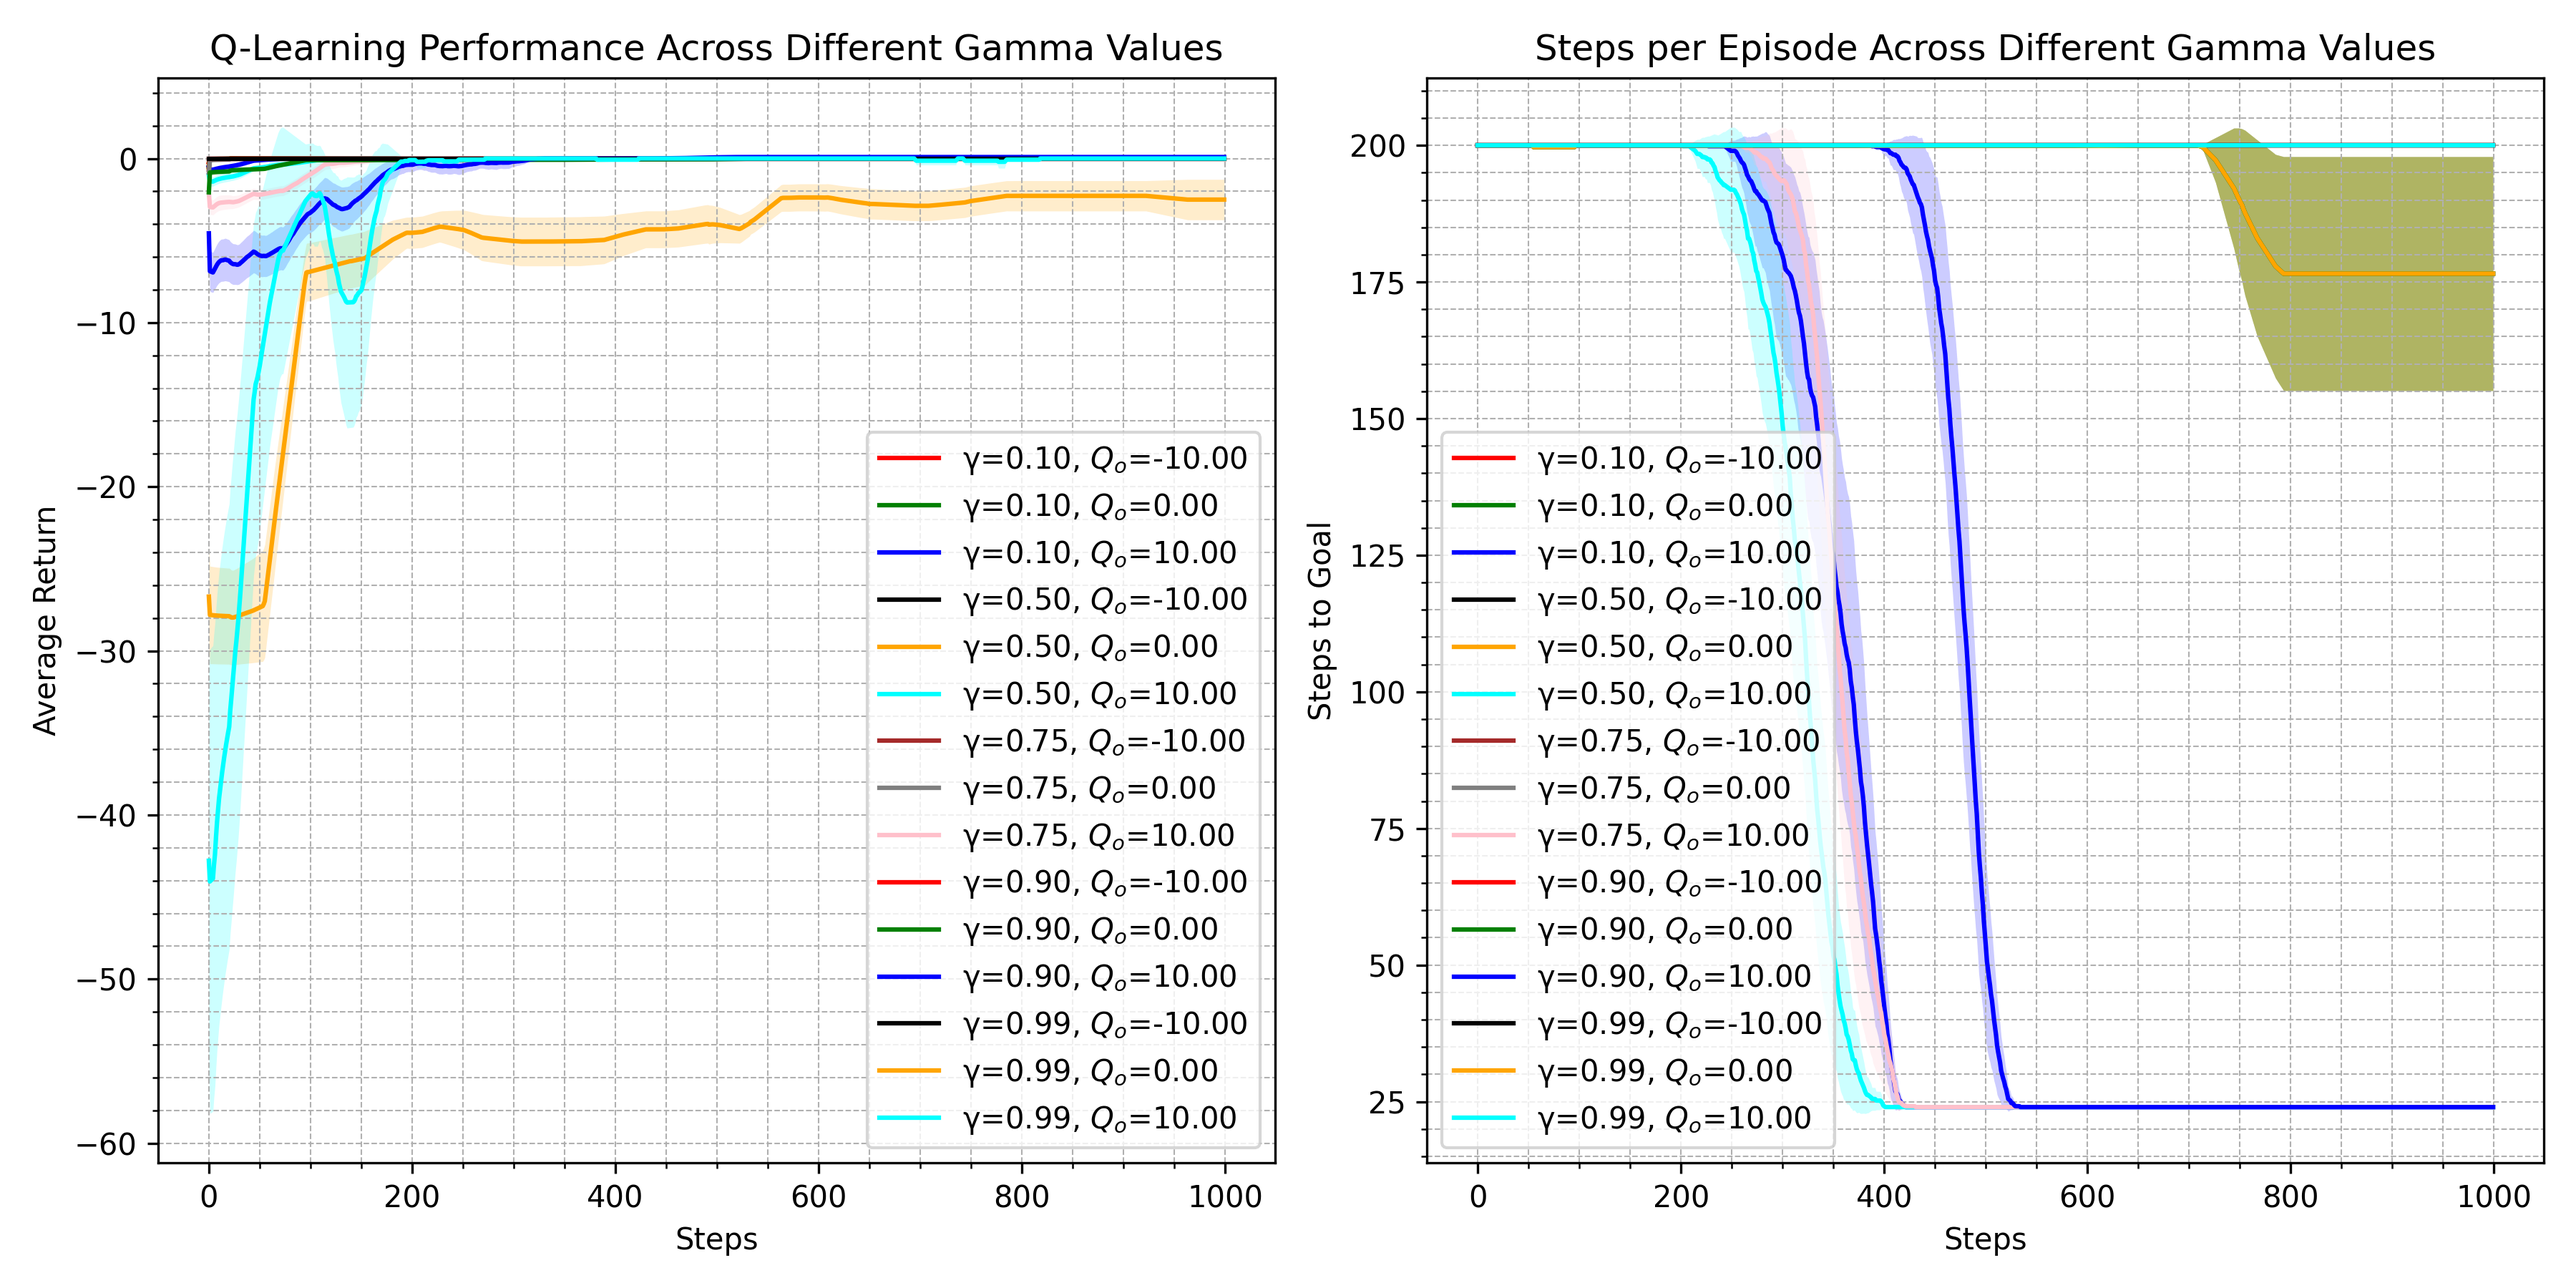
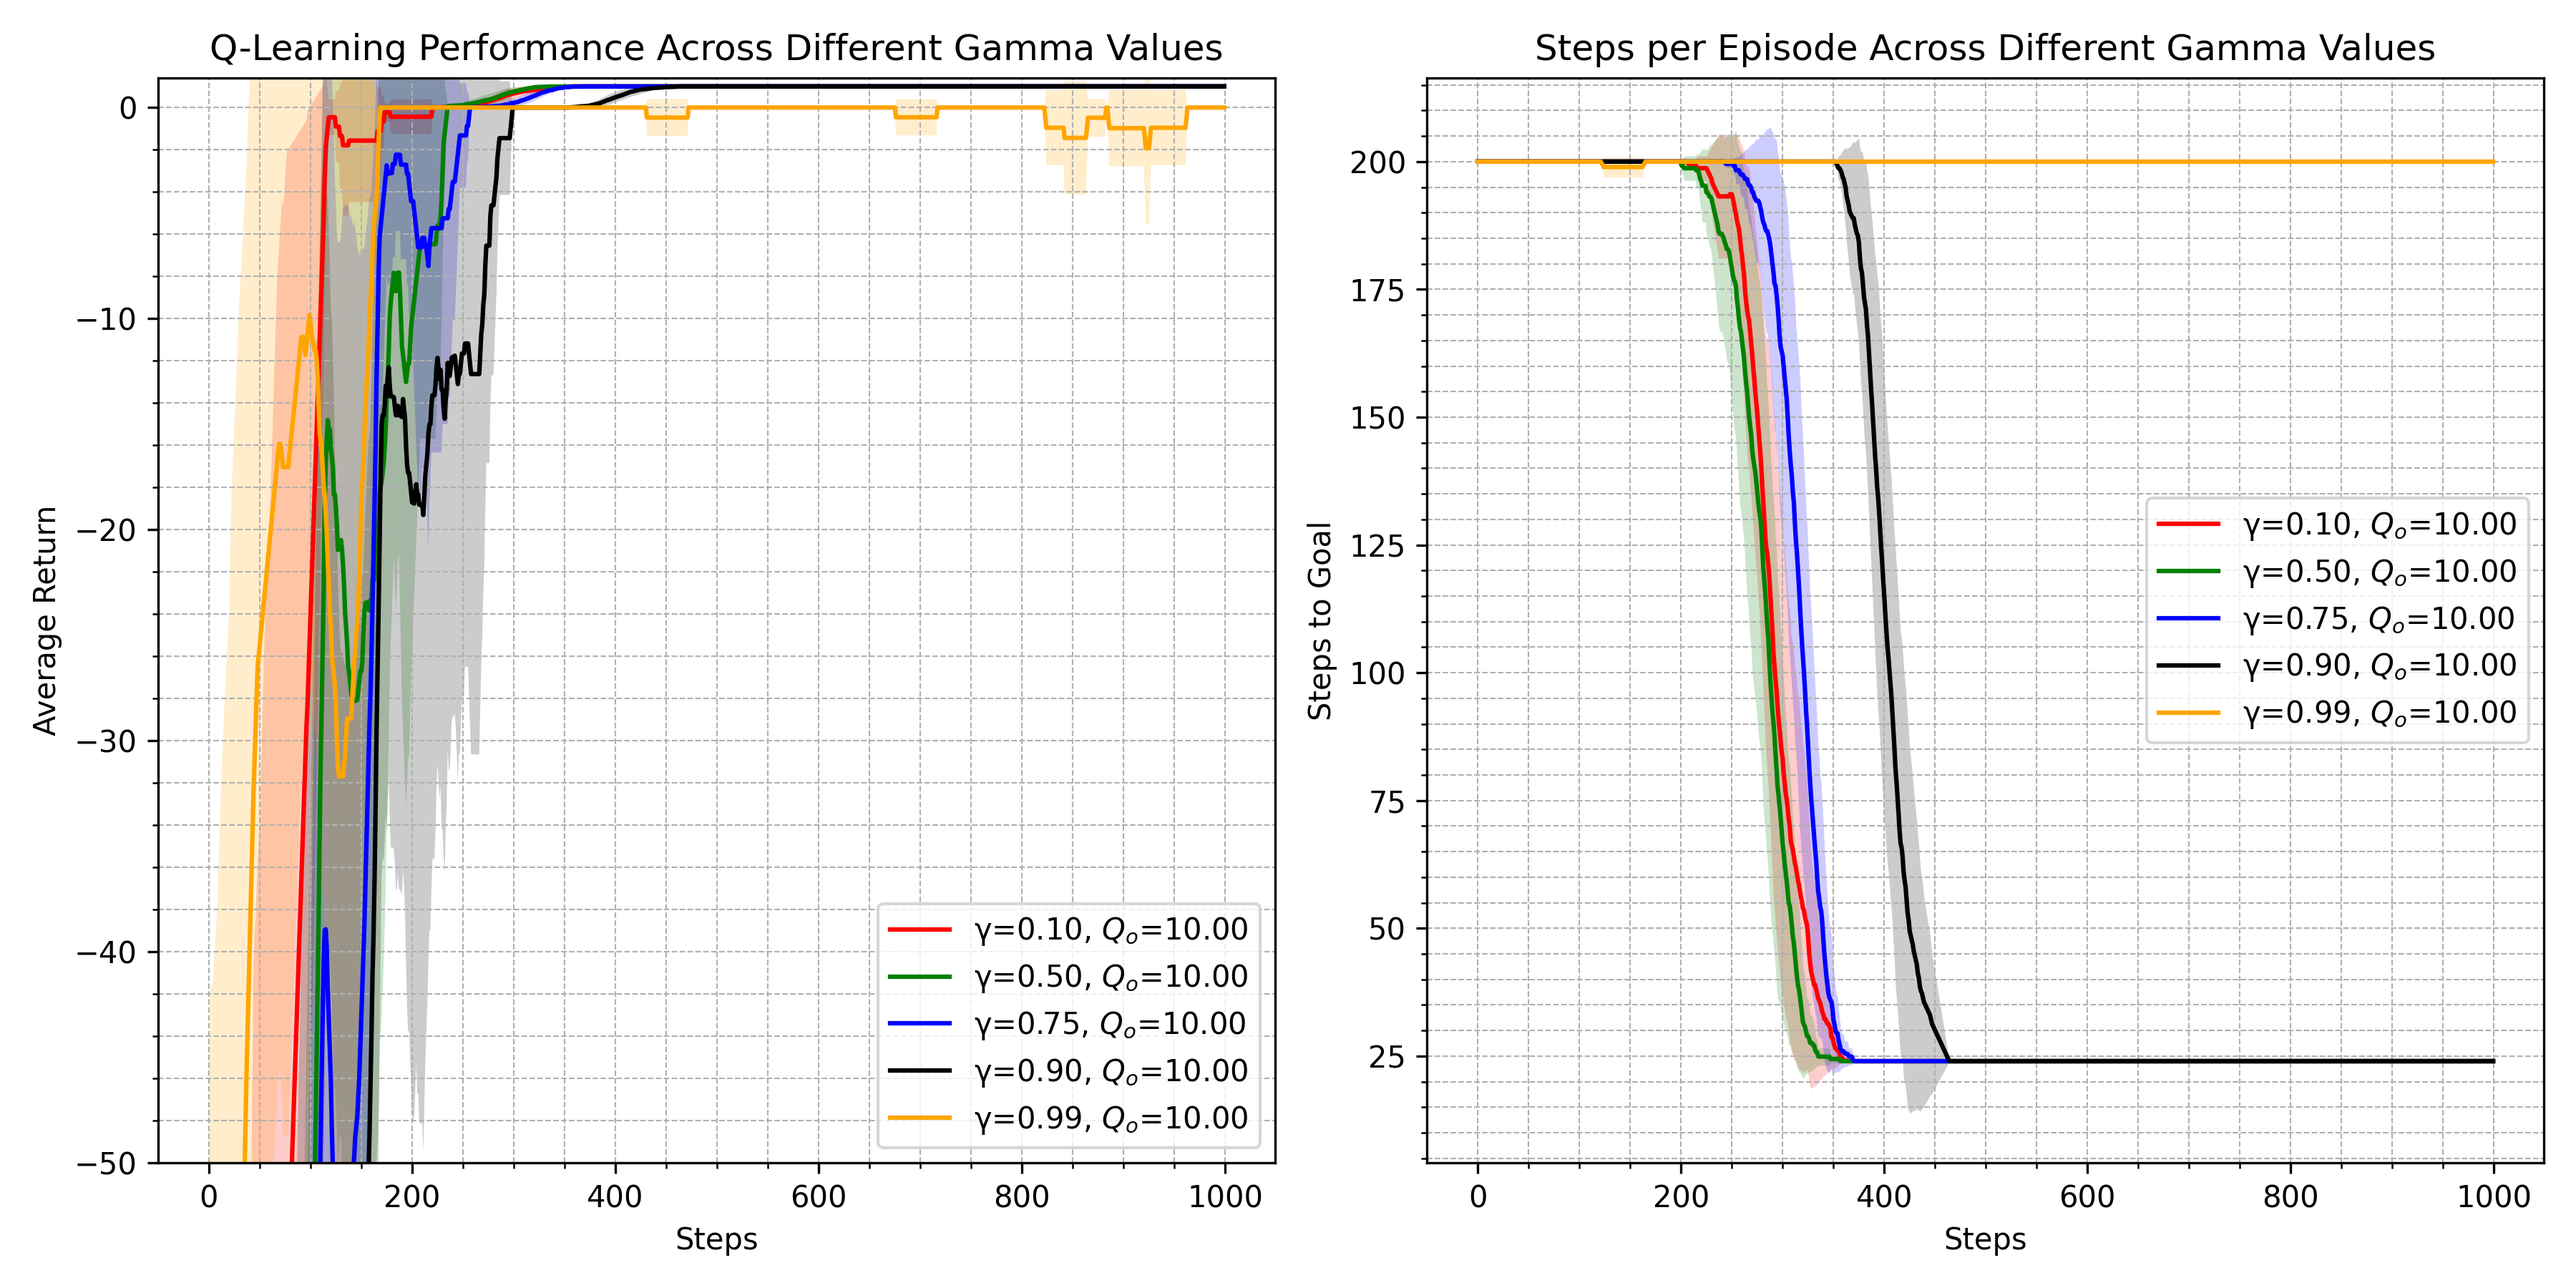
added experiments

Changed region(s): [[0.5289, 0.0622, 0.9956, 0.9022], [0.0311, 0.0622, 0.4978, 0.9022], [0.3111, 0.3111, 0.4978, 0.9022]]

diff --git a/experiments/q_learning.py b/experiments/q_learning.py
@@ -7,16 +7,16 @@ np.set_printoptions(precision=3)
 
 obstacle_map = [
     "00000100000",
-    "02222100022",
-    "00000120002",
-    "02220002020",
+    "00000100000",
+    "00000100000",
+    "00000000000",
     "00000100000",
     "11011111101",
-    "02000100200",
-    "00220102020",
     "00000100000",
-    "00220002002",
-    "00000100002",
+    "00000100000",
+    "00000100000",
+    "00000000000",
+    "00000100000",
 ]
 
 length = len(obstacle_map)
@@ -65,7 +65,7 @@ def expected_return(env, Q, gamma, episodes=1):
             a = eps_greedy_action(Q, s, 0.0)
             s_next, r, terminated, truncated, _ = env.step(a)
             done = terminated or truncated
-            G[e] += gamma**t * r
+            G[e] += r
             s = s_next
             t += 1
             if done:
@@ -136,7 +136,7 @@ eps = 1.0
 max_steps = 100000
 eval_steps = 100
 
-init_values = [-10.0, 0.0, 10.0]
+init_values = [10.0]#[-10.0, 0.0, 10.0]
 gamma_values = [0.1, 0.5, 0.75, 0.9, 0.99]
 seeds = np.arange(30)
 
@@ -187,7 +187,7 @@ for i, gamma in enumerate(gamma_values):
         axs[0].set_ylabel("Average Return", fontsize=10)
         axs[0].set_title("Q-Learning Performance Across Different Gamma Values")
         axs[0].legend()
-        axs[0].set_ylim([-5,1.4])
+        axs[0].set_ylim([-50,1.4])
 
         error_shade_plot(
             axs[1],

diff --git a/experiments/adaptive_gamma_q_learning.py b/experiments/adaptive_gamma_q_learning.py
@@ -65,7 +65,7 @@ def expected_return(env, Q, gamma, episodes=1):
             a = eps_greedy_action(Q, s, 0.0)
             s_next, r, terminated, truncated, _ = env.step(a)
             done = terminated or truncated
-            G[e] += gamma**t * r
+            G[e] += r
             s = s_next
             t += 1
             if done:
